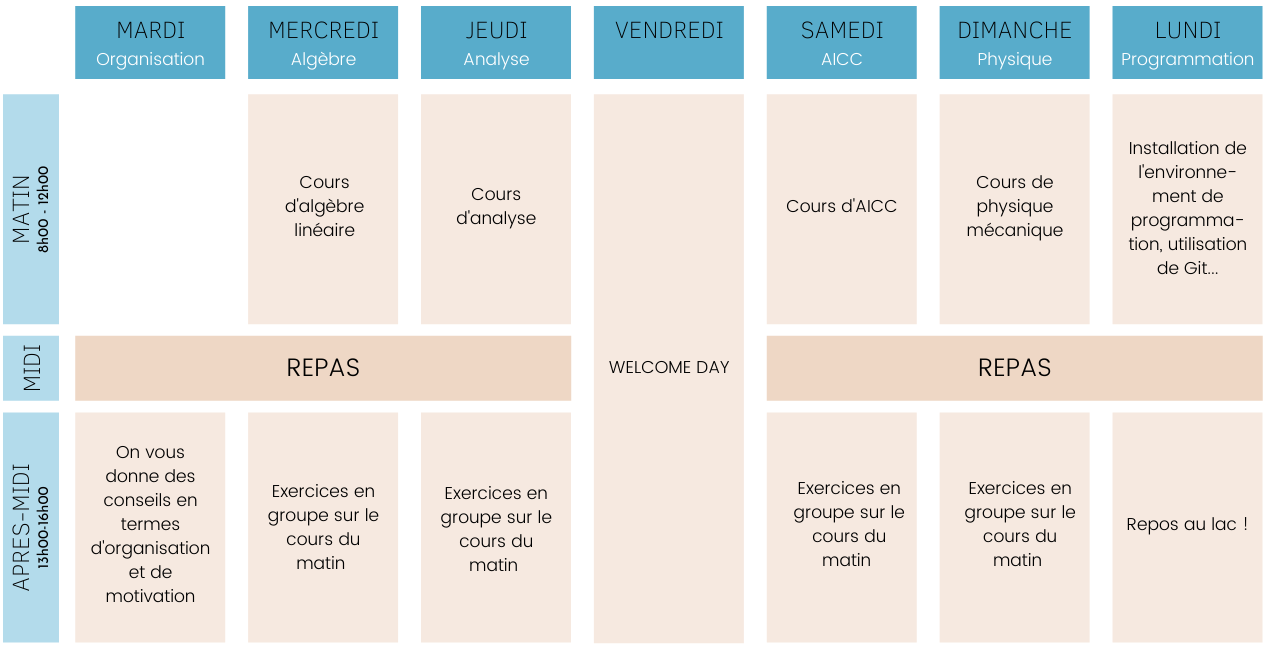
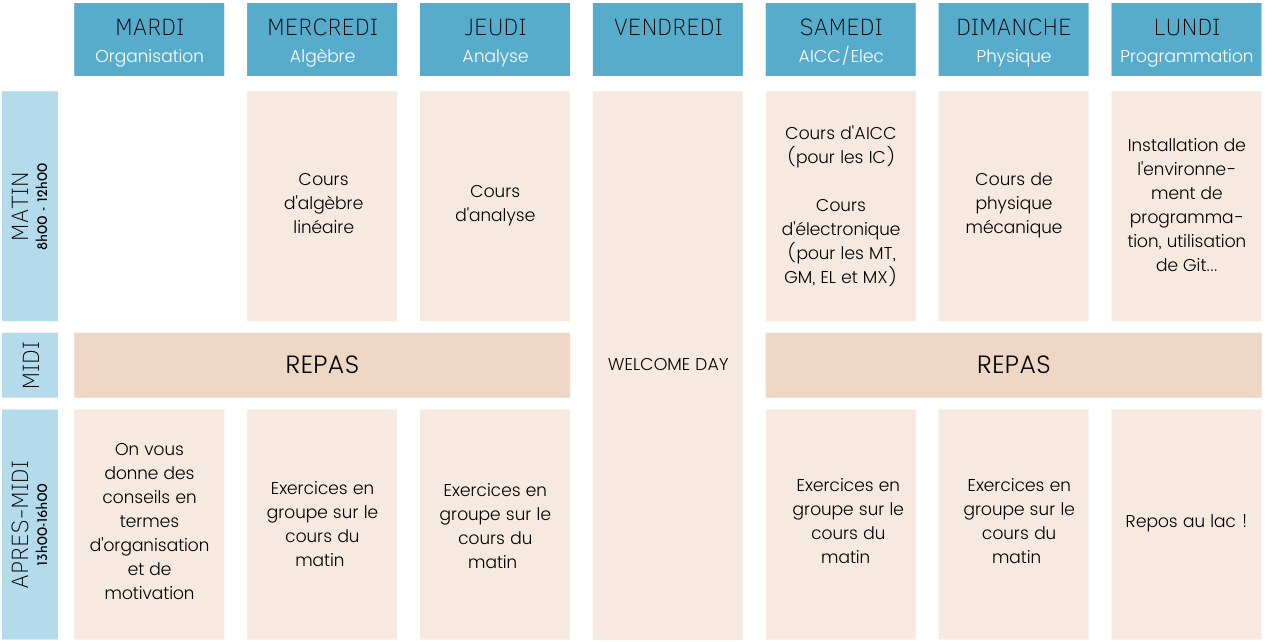
Update schedules

diff --git a/index.html b/index.html
@@ -92,6 +92,11 @@
                     </a>
                 </div>
                 <div class="col-xxl-4 col-md-6">
+                    <a href="assets/el.png" target="_blank">
+                        <img class="img-fluid" src="assets/el.png" alt="Programme électricité">
+                    </a>
+                </div>
+                <div class="col-xxl-4 col-md-6">
                     <a href="assets/ph.png" target="_blank">
                         <img class="img-fluid" src="assets/ph.png" alt="Programme physique">
                     </a>
